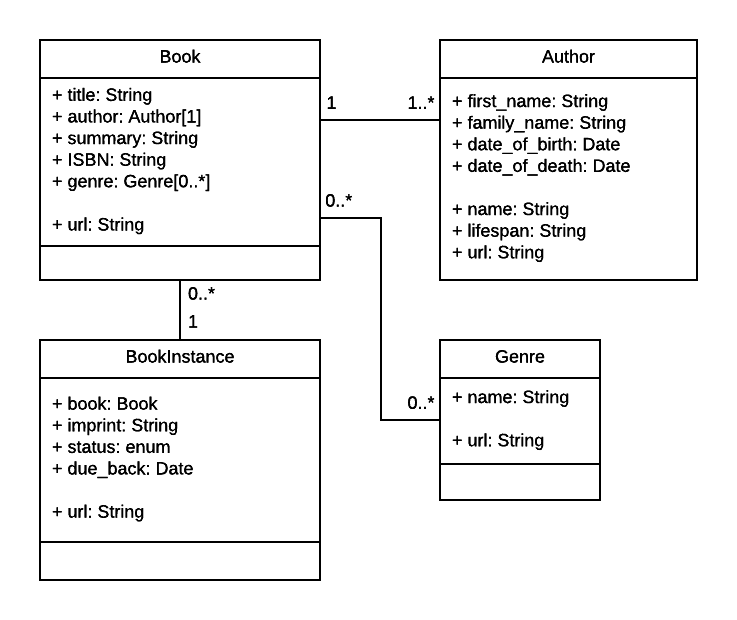
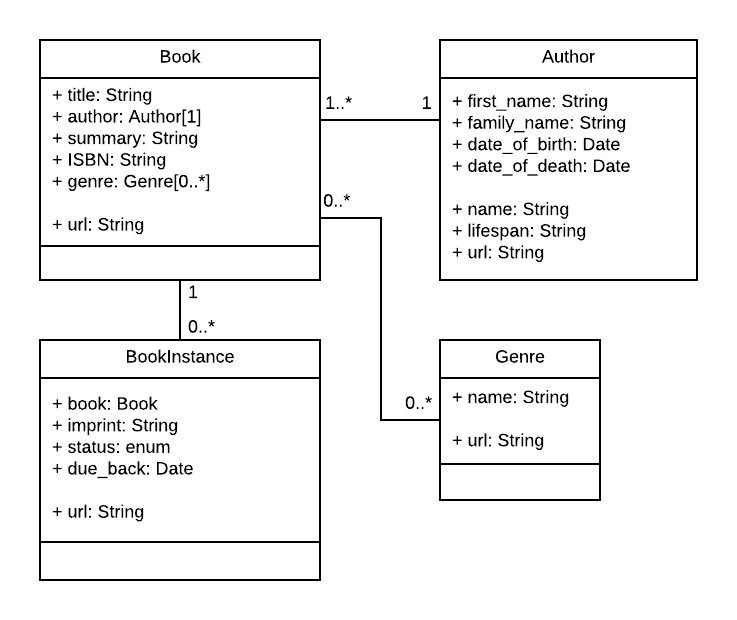
Fix cardinality in UML image

diff --git a/README.md b/README.md
@@ -5,12 +5,6 @@ Tutorial "Local Library" website written in in Node/Express.
 
 This web application creates an online catalog for a small local library, where users can browse available books and manage their accounts.
 
-The main features that have currently been implemented are:
-
-* None
-
-
-
 ![](https://github.com/hamishwillee/express-locallibrary-tutorial/blob/master/public/images/Library%20Website%20-%20Mongoose_Express.png)
 
 
